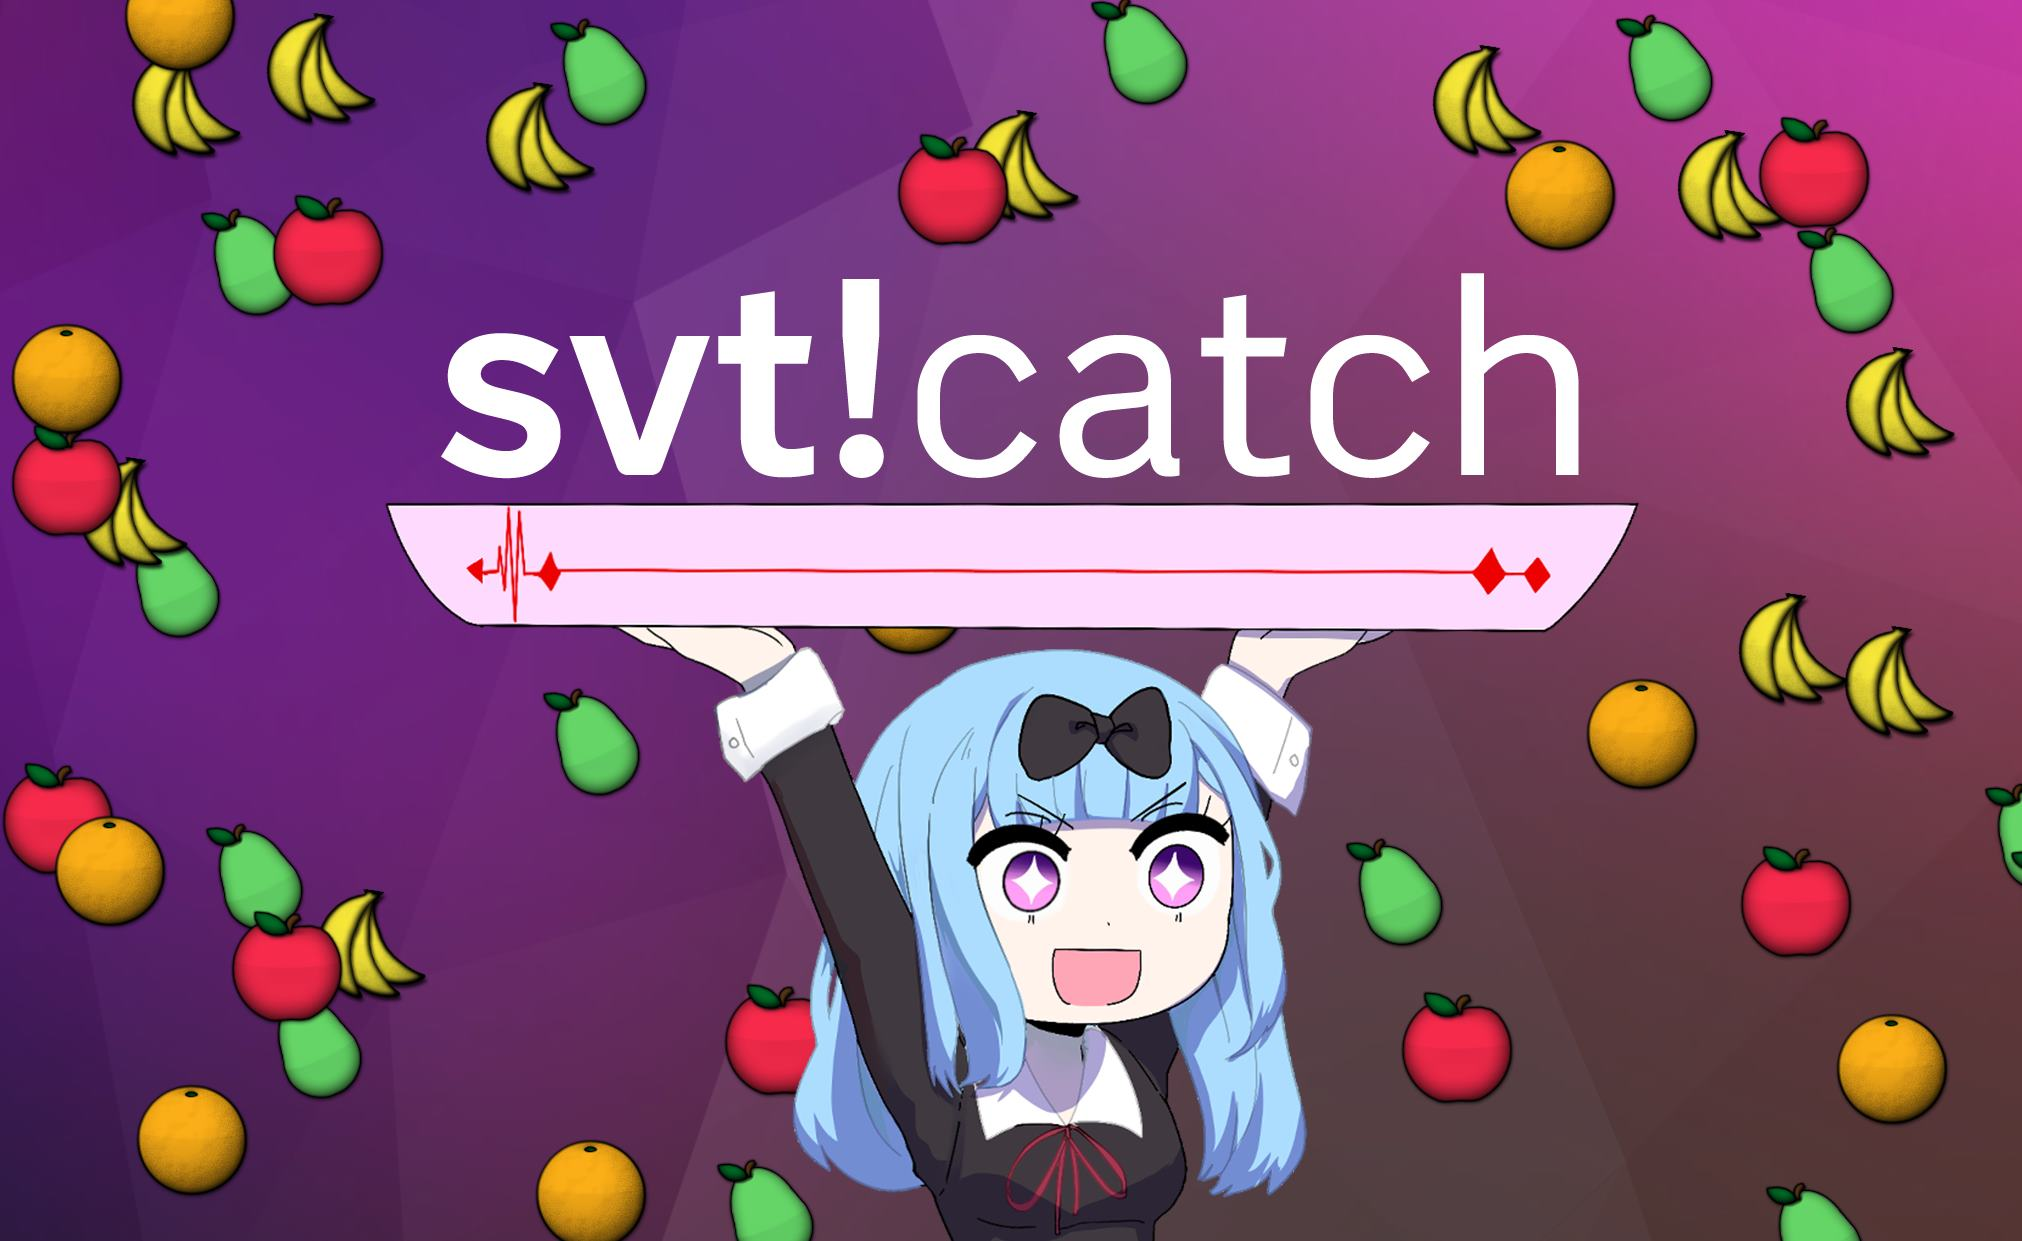
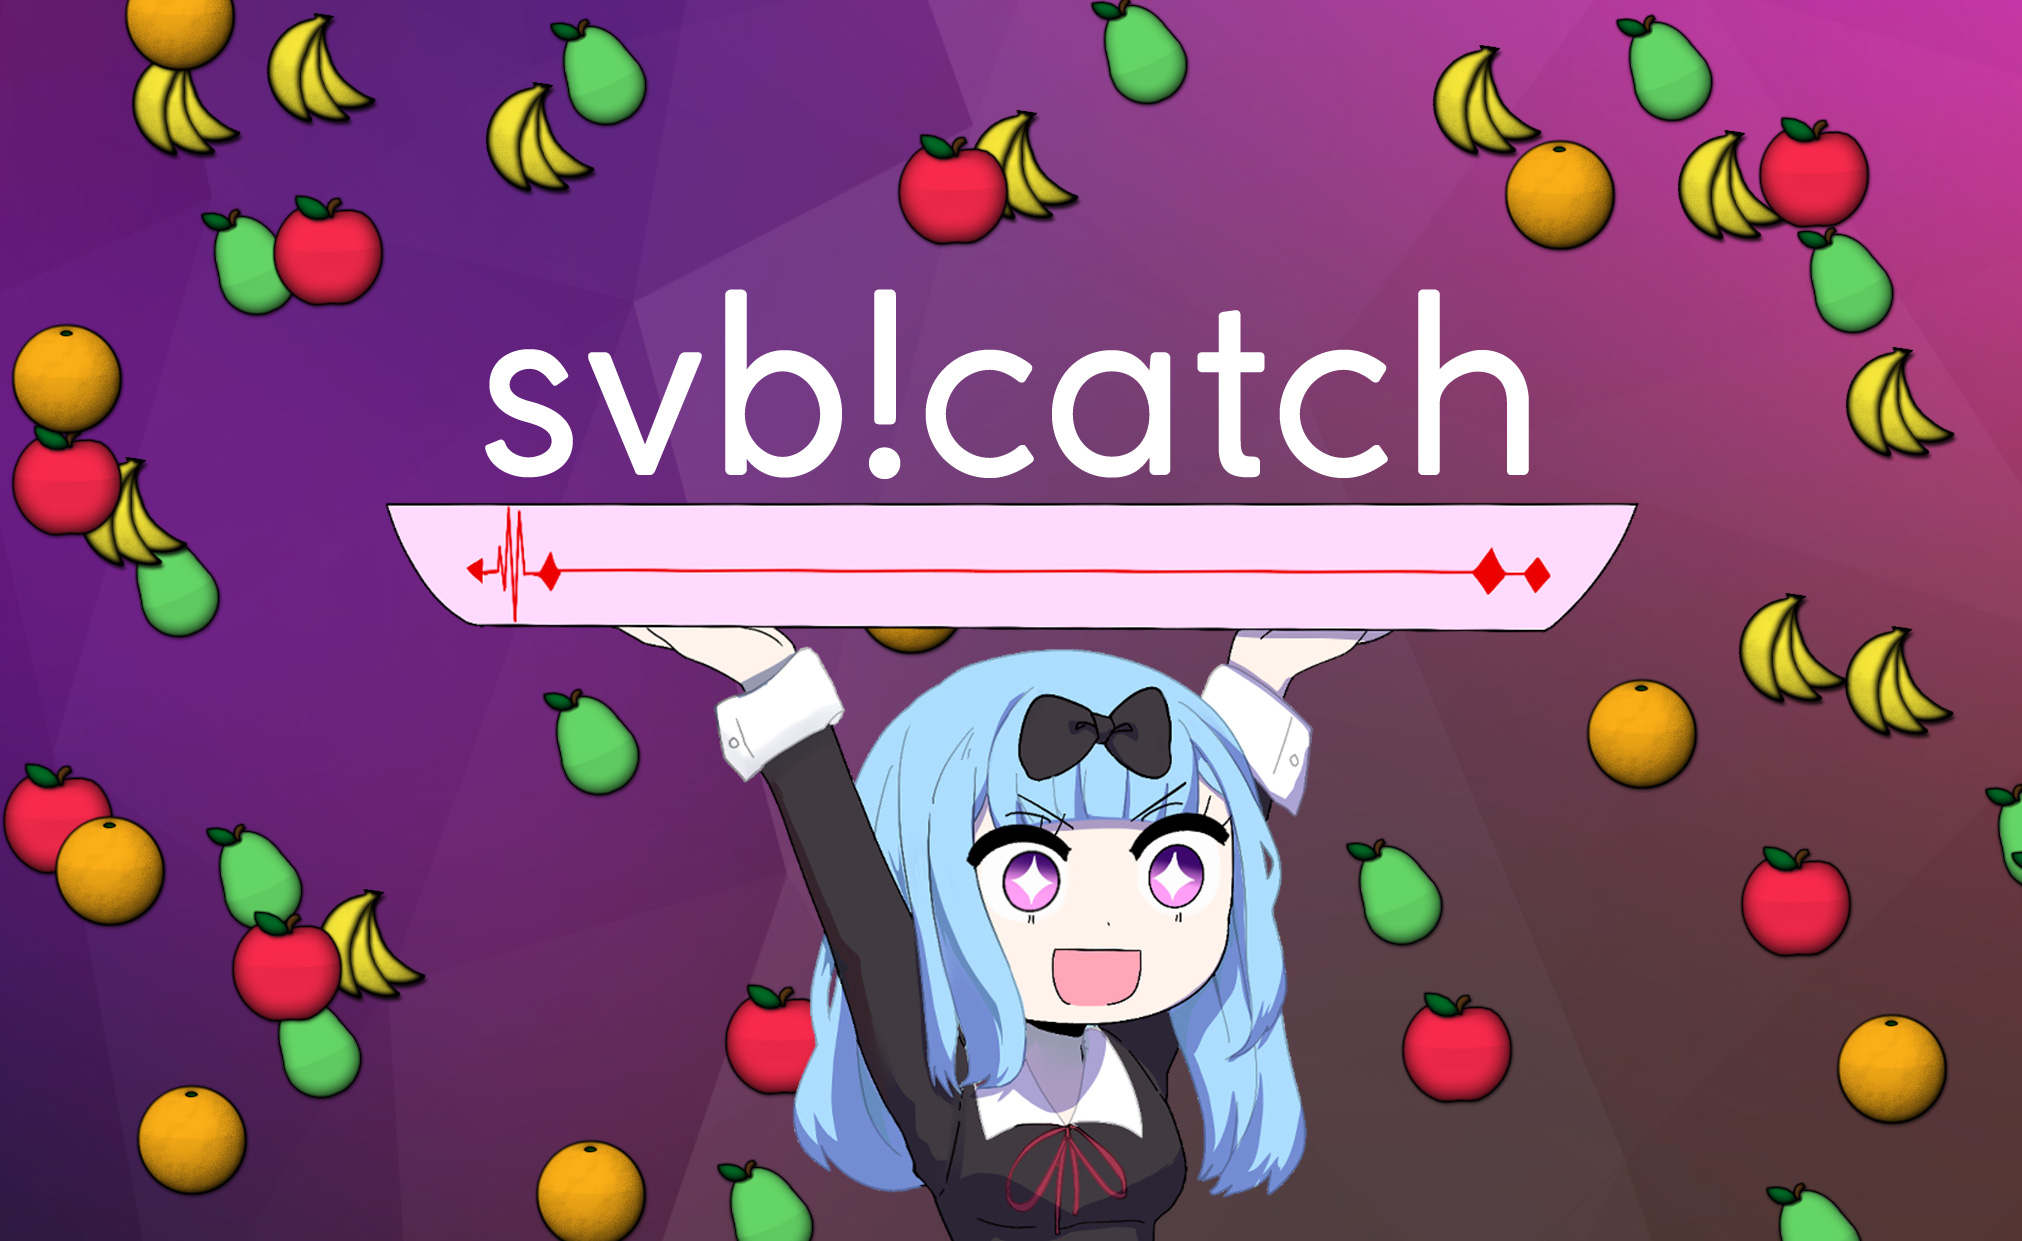
replace meta with new branding

Changed region(s): [[0.2181, 0.2143, 0.7789, 0.3981], [0.2493, 0.4287, 0.2804, 0.4593]]

diff --git a/app/public/post/index.html b/app/public/post/index.html
@@ -11,7 +11,7 @@
     <script src="https://unpkg.com/axios/dist/axios.min.js"></script>
     <script src="/js/svt.js"></script>
     <link href="/stylesheets/main.css" rel="stylesheet" type="text/css">
-    <title>SVT</title>
+    <title>SVB | Create article</title>
 
     <link rel="preconnect" href="https://fonts.gstatic.com">
     <link href="https://fonts.googleapis.com/css2?family=Public+Sans&display=swap" rel="stylesheet">
@@ -34,16 +34,16 @@
     <div class="login_mainframe">
         <div class="login_formtable">
 
-            <label class="label">Nyhetstitel</label><br>
+            <label class="label">News title</label><br>
             <input class="textbox" type="text" v-model="title" placeholder="Min artikel" maxlength="64" required><br>
 
-            <label class="label">Artikel</label><br>
+            <label class="label">Article</label><br>
             <textarea class="textbox articletextbox" type="text" v-model="text" maxlength="2500" required></textarea><br>
 
-            <label class="label">Omslagslänk</label><br>
+            <label class="label">Banner link</label><br>
             <input class="textbox" type="text" v-model="thumbnailPath" placeholder="img/omslag.png" maxlength="128" required><br>
 
-            <label class="label">Artikellänk</label><br>
+            <label class="label">Article link</label><br>
             <input class="textbox" type="text" v-model="url" placeholder="/min-artikel" :disabled="isEdit == 1" maxlength="64" required><br><br>
 
             <button class="submitbutton" v-on:click="vue_createpost">{{ action }}</button>
@@ -64,7 +64,7 @@
                     url: "",
                     date: new Date().toISOString().slice(0, 19).replace('T', ' '),
                     status: "",
-                    action: "Skapa inlägg",
+                    action: "Create article",
                     isEdit: 0
                 }
 
@@ -75,7 +75,7 @@
                     var edit = url.searchParams.get("edit");
                     if (edit != null) {
                         this.url = edit;
-                        this.action = "Uppdatera inlägg";
+                        this.action = "Update article";
                         this.isEdit = 1;
                         this.vue_fillpost();
                     }
@@ -85,13 +85,13 @@
             methods: {
                 async vue_createpost() {
                     if (this.title == null || this.title == "") {
-                        this.status = "Ett fel uppstod: Skriv en titel lmao";
+                        this.status = "Error: Write a title lmao";
                         return;
                     } else if (this.text == null || this.text == "") {
-                        this.status = "Ett fel uppstod: Skriv en artikel lmao";
+                        this.status = "Error: Write an article lmao";
                         return;
                     } else if (this.url == null || this.url == "") {
-                        this.status = "Ett fel uppstod: Skriv en länk lmao";
+                        this.status = "Error: Write a link lmao";
                         return;
                     }
                     await axios.post("/post/createpost", {
@@ -106,7 +106,7 @@
                         if (res.data == false) {
                             this.status = "Permission denied. Please log in to an account with access.";
                         } else {
-                            this.status = "Din post är uppe!";
+                            this.status = "Your article has been created.";
                             window.location.replace(`/articles/${this.url}.html`);
                         }
                     })

diff --git a/app/public/index.html b/app/public/index.html
@@ -18,17 +18,17 @@
   <link rel="preconnect" href="https://fonts.gstatic.com">
   <link href="https://fonts.googleapis.com/css2?family=Public+Sans&display=swap" rel="stylesheet">
   <!--Meta-->
-  <title>SVT</title>
-  <meta name="description" content="SVT Nyheter, but with some fruits.">
-  <meta name="image" content="https://i.imgur.com/3q3gCx2.jpg">
-  <meta itemprop="name" content="SVT Nyheter">
-  <meta itemprop="description" content="SVT Nyheter, but with some fruits.">
-  <meta itemprop="image" content="https://i.imgur.com/3q3gCx2.jpg">
-  <meta name="og:title" content="SVT Nyheter">
-  <meta name="og:description" content="SVT Nyheter, but with some fruits.">
-  <meta name="og:image" content="https://i.imgur.com/hRCYy7m.png">
+  <title>SVB</title>
+  <meta name="description" content="SVB Nyheter with some fruits.">
+  <meta name="image" content="/img/banner.jpg">
+  <meta itemprop="name" content="SVB Nyheter">
+  <meta itemprop="description" content="SVB Nyheter with some fruits.">
+  <meta itemprop="image" content="/img/banner.jpg">
+  <meta name="og:title" content="SVB Nyheter">
+  <meta name="og:description" content="SVB Nyheter with some fruits.">
+  <meta name="og:image" content="/img/banner.jpg">
   <meta name="og:url" content="https://svt.sajber.me">
-  <meta name="og:site_name" content="SVT">
+  <meta name="og:site_name" content="SVB">
   <meta name="og:locale" content="sv_SE">
   <meta name="og:type" content="website">
 </head>
@@ -56,12 +56,12 @@
   <div id="gallery" class="center">
     <form method="post">
       <select name='sorting_order' id="sorting_order" onchange='UpdateFeed()'>
-        <option value='new'>Nyast</option>
-        <option value='old'>Äldst</option>
-        <option value='alphabetical'>Titel</option>
-        <option value='reversealphabetical'>Titel (omvänd)</option>
-        <option value='long'>Längst</option>
-        <option value='short'>Kortast</option>
+        <option value='new'>New</option>
+        <option value='old'>Old</option>
+        <option value='alphabetical'>Title</option>
+        <option value='reversealphabetical'>Title (reversed)</option>
+        <option value='long'>Longest</option>
+        <option value='short'>Shortest</option>
       </select>
     </form>
     <!--Gallery with articles-->

diff --git a/app/public/members/index.html b/app/public/members/index.html
@@ -18,17 +18,17 @@
   <link rel="preconnect" href="https://fonts.gstatic.com">
   <link href="https://fonts.googleapis.com/css2?family=Public+Sans&display=swap" rel="stylesheet">
   <!--Meta-->
-  <title>SVT | Medlemmar</title>
-  <meta name="description" content="SVT Nyheter, but with some fruits.">
+  <title>SVB | Members</title>
+  <meta name="description" content="SVB Nyheter, but with some fruits.">
   <meta name="image" content="https://i.imgur.com/3q3gCx2.jpg">
-  <meta itemprop="name" content="SVT Nyheter">
-  <meta itemprop="description" content="SVT Nyheter, but with some fruits.">
+  <meta itemprop="name" content="SVB Nyheter">
+  <meta itemprop="description" content="SVB Nyheter, but with some fruits.">
   <meta itemprop="image" content="https://i.imgur.com/3q3gCx2.jpg">
-  <meta name="og:title" content="SVT Nyheter">
-  <meta name="og:description" content="SVT Nyheter, but with some fruits.">
+  <meta name="og:title" content="SVB Nyheter">
+  <meta name="og:description" content="SVB Nyheter, but with some fruits.">
   <meta name="og:image" content="https://i.imgur.com/hRCYy7m.png">
   <meta name="og:url" content="https://svt.sajber.me">
-  <meta name="og:site_name" content="SVT">
+  <meta name="og:site_name" content="SVB">
   <meta name="og:locale" content="sv_SE">
   <meta name="og:type" content="website">
 </head>
@@ -48,10 +48,10 @@
   <div id="gallery" class="center">
     <form method="post">
       <select name='sorting_order' id="sorting_order" onchange='UpdateFeed()'>
-        <option value='new'>Nyast</option>
-        <option value='old'>Äldst</option>
-        <option value='alphabetical'>Namn</option>
-        <option value='reversealphabetical'>Namn (omvänd)</option>
+        <option value='new'>New</option>
+        <option value='old'>Old</option>
+        <option value='alphabetical'>Name</option>
+        <option value='reversealphabetical'>Name (reversed)</option>
       </select>
     </form>
     <!--Gallery with members-->

diff --git a/app/public/catch/index.html b/app/public/catch/index.html
@@ -21,17 +21,16 @@
     <!--Styling-->
     <link href="/stylesheets/main.css" rel="stylesheet" type="text/css">
     <!--Meta-->
-    <title>svt!catch</title>
+    <title>svb!catch</title>
     <meta name="viewport" content="width=device-width, user-scalable=no" />
-    <meta name="description" content="svt!catch, made entirely in JavaScript. It had to be done, you're welcome Laith.">
-    <meta name="image" content="https://i.imgur.com/0s5znfW.png">
-    <meta itemprop="name" content="svt!catch">
-    <meta itemprop="description" content="svt!catch, made entirely in JavaScript. It had to be done, you're welcome Laith.">
-    <meta itemprop="image" content="https://i.imgur.com/0s5znfW.png">
-    <meta name="og:title" content="svt!catch">
-    <meta name="og:description" content="svt!catch, made entirely in JavaScript. It had to be done, you're welcome Laith.">
-    <meta name="og:image" content="https://i.imgur.com/hRCYy7m.png">
-    <meta name="og:url" content="https://svt.sajber.me/catch/catch.html">
+    <meta name="description" content="osu!catch, but entirely in JavaScript. You're welcome Laith.">
+    <meta name="image" content="/img/banner.jpg">
+    <meta itemprop="name" content="svb!catch">
+    <meta itemprop="description" content="osu!catch, but entirely in JavaScript. You're welcome Laith.">
+    <meta itemprop="image" content="/img/banner.jpg">
+    <meta name="og:title" content="svb!catch">
+    <meta name="og:description" content="osu!catch, but entirely in JavaScript. You're welcome Laith.">
+    <meta name="og:image" content="/img/banner.jpg">
     <meta name="og:site_name" content="SVT">
     <meta name="og:locale" content="sv_SE">
     <meta name="og:type" content="website">

diff --git a/app/public/profile/index.html b/app/public/profile/index.html
@@ -11,7 +11,7 @@
     <!--Styling-->
     <link href="/stylesheets/main.css" rel="stylesheet" type="text/css">
     <!--Meta-->
-    <title>SVT</title>
+    <title>SVB</title>
     <meta charset="utf-8">
     <meta http-equiv="X-UA-Compatible" content="IE=edge">
     <meta name="viewport" content="width=device-width, initial-scale=1">
@@ -49,7 +49,7 @@
             <div class="center game-stats">
                 <!-- Catch scores -->
                 <div>
-                    <h1 style="padding:20px; margin:0; text-decoration: underline;">svt!catch stats</h1>
+                    <h1 style="padding:20px; margin:0; text-decoration: underline;">svb!catch stats</h1>
                     <ul id="rank-list">
                         <h2>Ranks achieved</h2>
                         <li>
@@ -129,7 +129,7 @@
                 roles: [],
                 editref: "/profile/edit",
                 //
-                // svt!catch stats
+                // svb!catch stats
                 //
                 catch_scores: "",
                 catch_ranks_SS: 0,
@@ -195,7 +195,7 @@
     Vue.createApp(userProfile).mount('#page')
 
     function setUser(vue, data) {
-        document.title = `SVT | ${data.name}'s profile`
+        document.title = `SVB | ${data.name}'s profile`
         vue.id = data.id;
         vue.username = data.name;
         vue.discriminator = data.discriminator;

diff --git a/app/public/mudae/index.html b/app/public/mudae/index.html
@@ -19,17 +19,17 @@
   <link rel="preconnect" href="https://fonts.gstatic.com">
   <link href="https://fonts.googleapis.com/css2?family=Public+Sans&display=swap" rel="stylesheet">
   <!--Meta-->
-  <title>SVT | Mudae</title>
-  <meta name="description" content="SVT Nyheter, but with some fruits.">
+  <title>SVB | Mudae</title>
+  <meta name="description" content="SVB Nyheter, but with some fruits.">
   <meta name="image" content="https://i.imgur.com/3q3gCx2.jpg">
-  <meta itemprop="name" content="SVT Nyheter">
-  <meta itemprop="description" content="SVT Nyheter, but with some fruits.">
+  <meta itemprop="name" content="SVB Nyheter">
+  <meta itemprop="description" content="SVB Nyheter, but with some fruits.">
   <meta itemprop="image" content="https://i.imgur.com/3q3gCx2.jpg">
-  <meta name="og:title" content="SVT Nyheter">
-  <meta name="og:description" content="SVT Nyheter, but with some fruits.">
+  <meta name="og:title" content="SVB Nyheter">
+  <meta name="og:description" content="SVB Nyheter, but with some fruits.">
   <meta name="og:image" content="https://i.imgur.com/hRCYy7m.png">
   <meta name="og:url" content="https://svt.sajber.me">
-  <meta name="og:site_name" content="SVT">
+  <meta name="og:site_name" content="SVB">
   <meta name="og:locale" content="sv_SE">
   <meta name="og:type" content="website">
 </head>

diff --git a/app/public/reused/nav.html b/app/public/reused/nav.html
@@ -9,7 +9,7 @@
         <li><a href="/" id="nav-main">Nyheter</a></li>
         <li><a href="/mudae" id="nav-mudae">Mudae</a></li>
         <!--<li><a href=/members id="nav-members">Medlemmar</a></li>-->
-        <li><a href="/catch" id="nav-catch">svt!catch</a></li>
+        <li><a href="/catch" id="nav-catch">svb!catch</a></li>
         <li><a href="/sajberroyale" id="nav-royale">SajberRoyale</a></li>
         <!--<li><a href="/contact" v-if="loggedIn" id="nav-contact">Kontakt</a></li>-->
         <li><a v-bind:href="href" v-if="!loggedIn">Logga in</a></li>

diff --git a/app/public/profile/edit/index.html b/app/public/profile/edit/index.html
@@ -5,7 +5,7 @@
     <meta charset="utf-8">
     <meta http-equiv="X-UA-Compatible" content="IE=edge">
     <meta name="viewport" content="width=device-width, initial-scale=1">
-    <title>SVT | Redigera profil</title>
+    <title>SVB | Redigera profil</title>
     <link href="/stylesheets/main.css" rel="stylesheet" type="text/css">
     <script src="https://kit.fontawesome.com/2db49cb13f.js" crossorigin="anonymous"></script>
     <script src="https://unpkg.com/jquery@3.5.1/dist/jquery.js"></script>

diff --git a/app/public/contact/index.html b/app/public/contact/index.html
@@ -5,7 +5,7 @@
     <meta charset="utf-8">
     <meta http-equiv="X-UA-Compatible" content="IE=edge">
     <meta name="viewport" content="width=device-width, initial-scale=1">
-    <title>SVT | Redigera profil</title>
+    <title>SVB | Contact</title>
     <link href="/stylesheets/main.css" rel="stylesheet" type="text/css">
     <script src="https://kit.fontawesome.com/2db49cb13f.js" crossorigin="anonymous"></script>
     <script src="https://unpkg.com/jquery@3.5.1/dist/jquery.js"></script>

diff --git a/app/public/profile/auth/index.html b/app/public/profile/auth/index.html
@@ -11,7 +11,7 @@
     <!--Styling-->
     <link href="/stylesheets/main.css" rel="stylesheet" type="text/css">
     <!--Meta-->
-    <title>SVT</title>
+    <title>SVB</title>
     <meta charset="utf-8">
     <meta http-equiv="X-UA-Compatible" content="IE=edge">
     <meta name="viewport" content="width=device-width, initial-scale=1">
